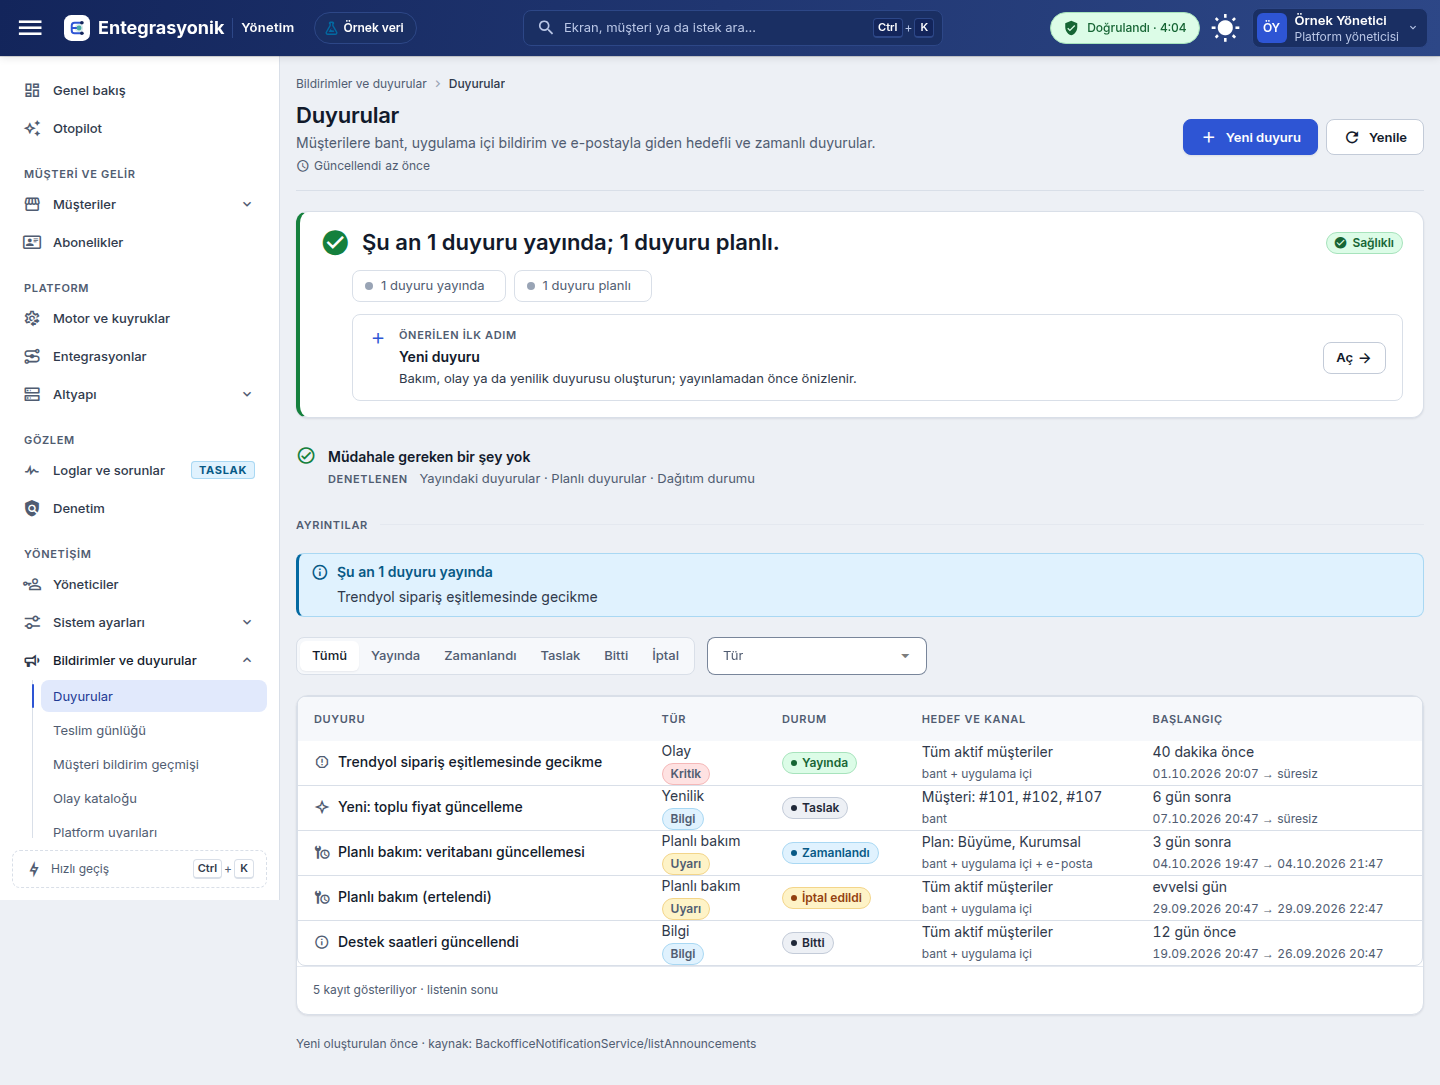
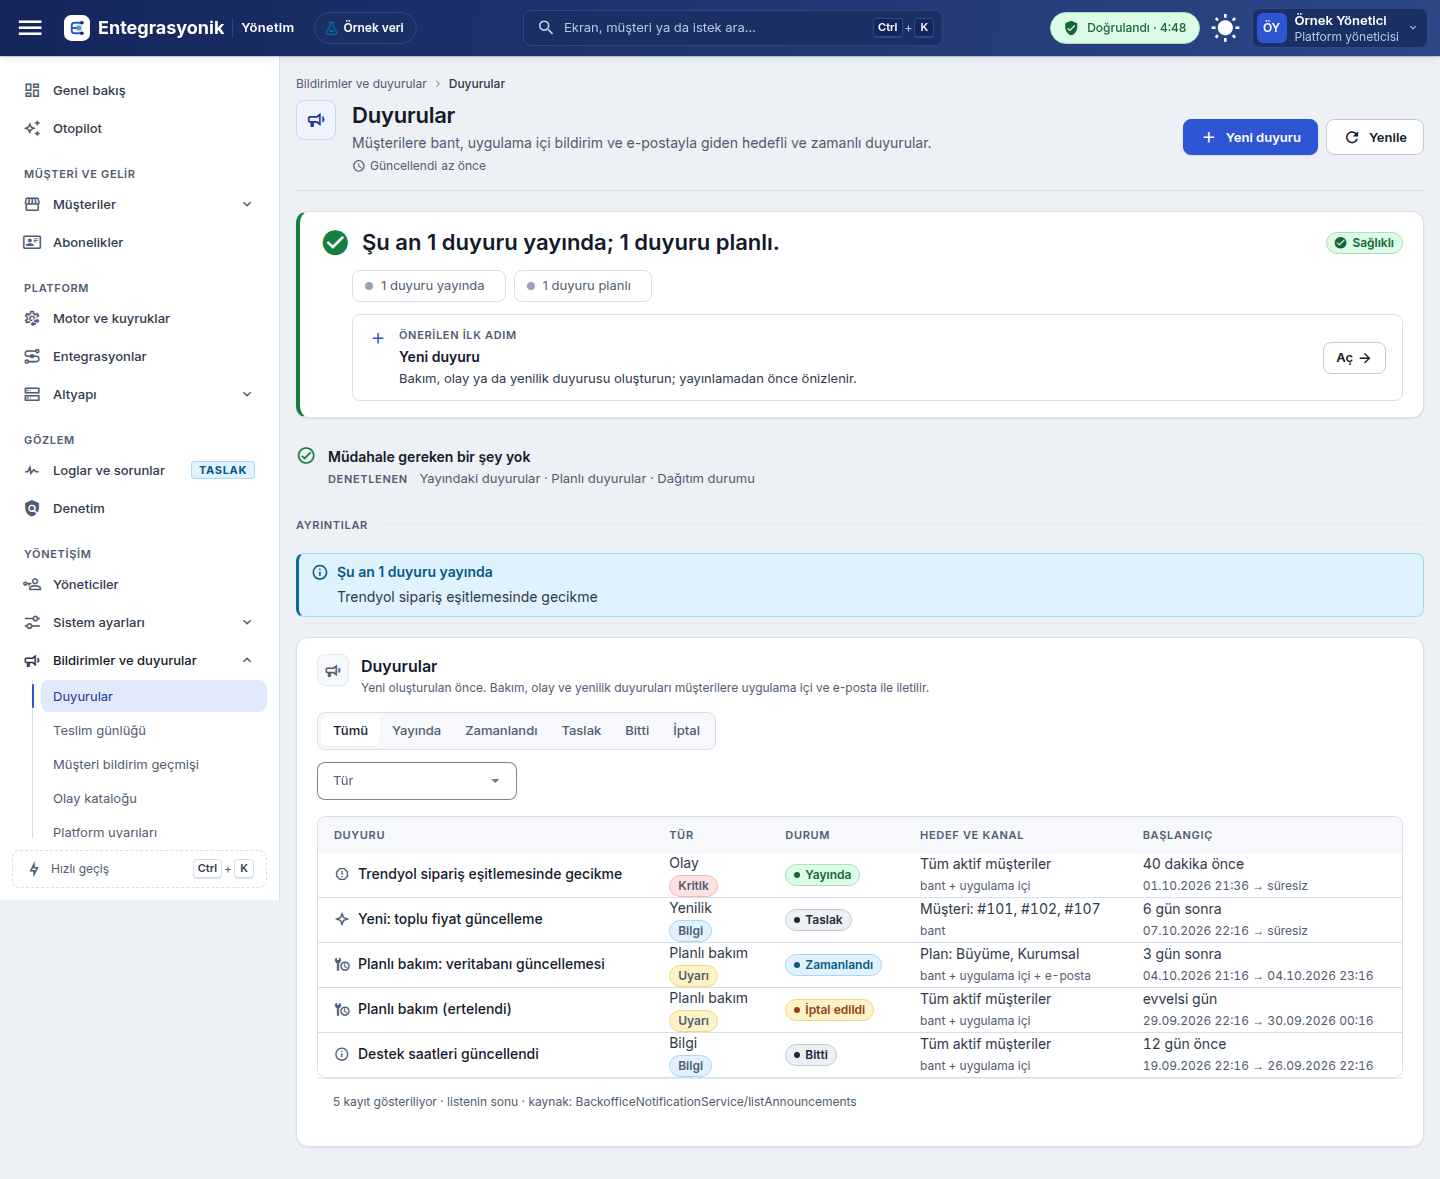
bo-r2b-cloud: BO2-P4 müşteri kullanımı, BO2-P5 abonelikler (sekmeli liste + detay), P7 entegrasyonlar/altyapı/önbellek ve bildirimler/duyurular R2 bileşenlerine; Otopilot durum çipi tonu
Claude-Session: https://claude.ai/code/session_019xX3CSc7799JfQKjDkUJwj

diff --git a/frontend/backoffice/src/views/notifications/DeliveriesView.vue b/frontend/backoffice/src/views/notifications/DeliveriesView.vue
@@ -26,12 +26,11 @@
             <EkEmptyState v-if="!byCode.length" variant="no-data" title="Teslim yok" message="Bu aralıkta e-posta teslimi oluşmadı." />
             <BoTableFrame v-else :label="`Koda göre teslimler (${win === '24h' ? 'son 24 saat' : 'son 7 gün'})`" flat>
               <template #head>
-                <tr><th scope="col">Kod</th><th scope="col" class="is-num">Toplam</th><th scope="col" class="is-num">Gönderildi</th><th scope="col" class="is-num">Sorunlu</th></tr>
+                <tr><th scope="col">Kod</th><th scope="col" class="is-num">Toplam</th><th scope="col" class="is-num">Sorunlu</th></tr>
               </template>
               <tr v-for="c in byCode" :key="c.code">
                 <th scope="row"><button type="button" class="bo-link-btn bo-mono" :aria-label="`${c.code} teslimlerini listele`" @click="code = c.code">{{ c.code }}</button></th>
                 <td class="is-num ek-num">{{ c.total }}</td>
-                <td class="is-num ek-num">{{ c.sent }}</td>
                 <td class="is-num ek-num" :class="{ 'bo-dlv__bad': c.bad > 0 }">{{ c.bad }}</td>
               </tr>
             </BoTableFrame>

diff --git a/frontend/backoffice/src/views/otopilot/OtopilotView.vue b/frontend/backoffice/src/views/otopilot/OtopilotView.vue
@@ -91,7 +91,7 @@ const verdict = computed(() => {
 })
 const chipTone = computed(() => {
   const t = verdict.value?.tone
-  return t === 'success' || t === 'error' || t === 'warning' ? t : 'info'
+  return t === 'error' ? 'danger' : t === 'success' || t === 'warning' ? t : 'info'
 })
 const statusLabel = computed(() => (verdict.value?.tone === 'success' ? 'Etkin' : verdict.value?.summary ?? ''))
 /** Yalnız anahtar sorunlarında ayara bağlantı (hükmün ilk maddesinin hedefi). */
